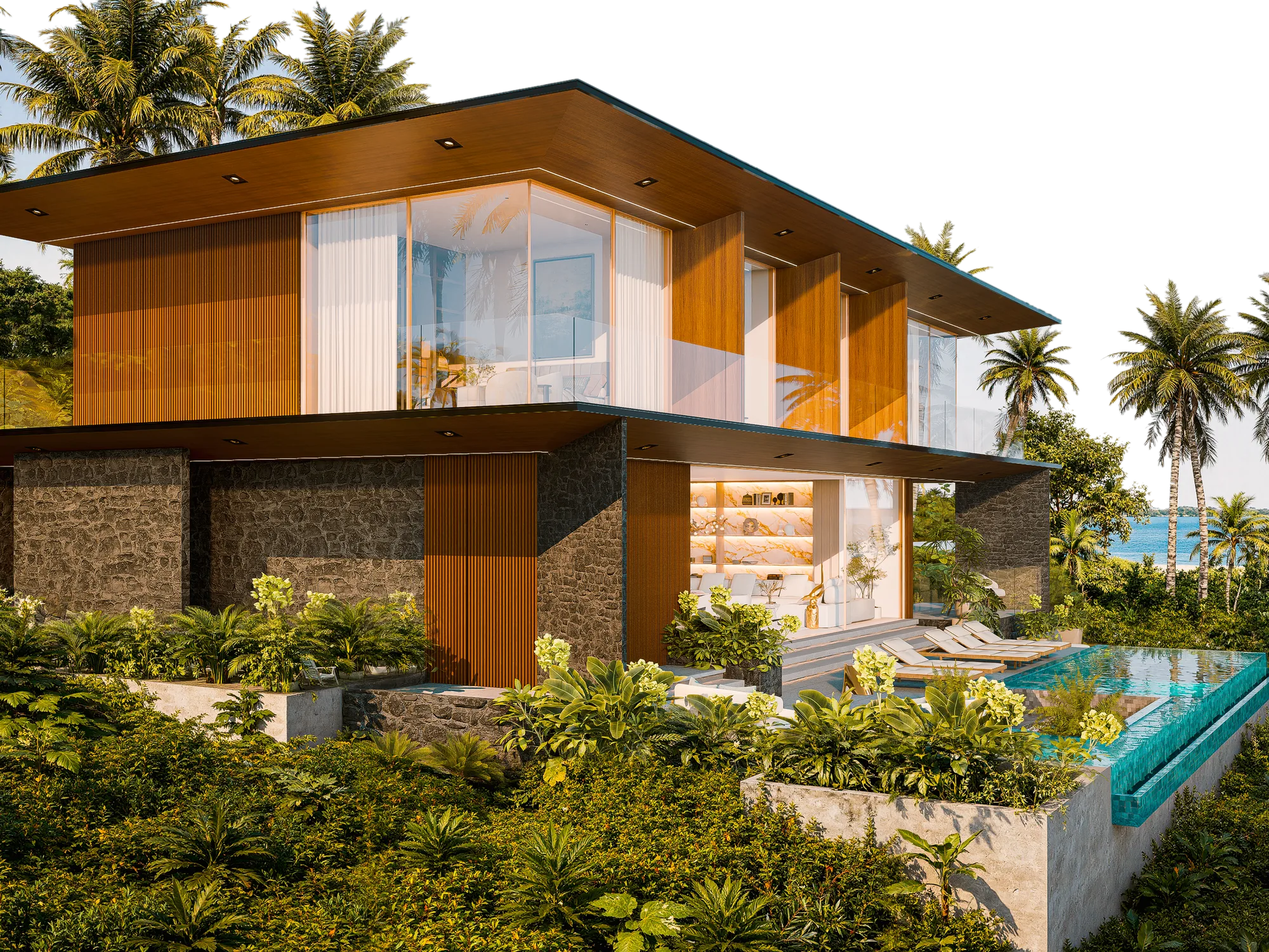
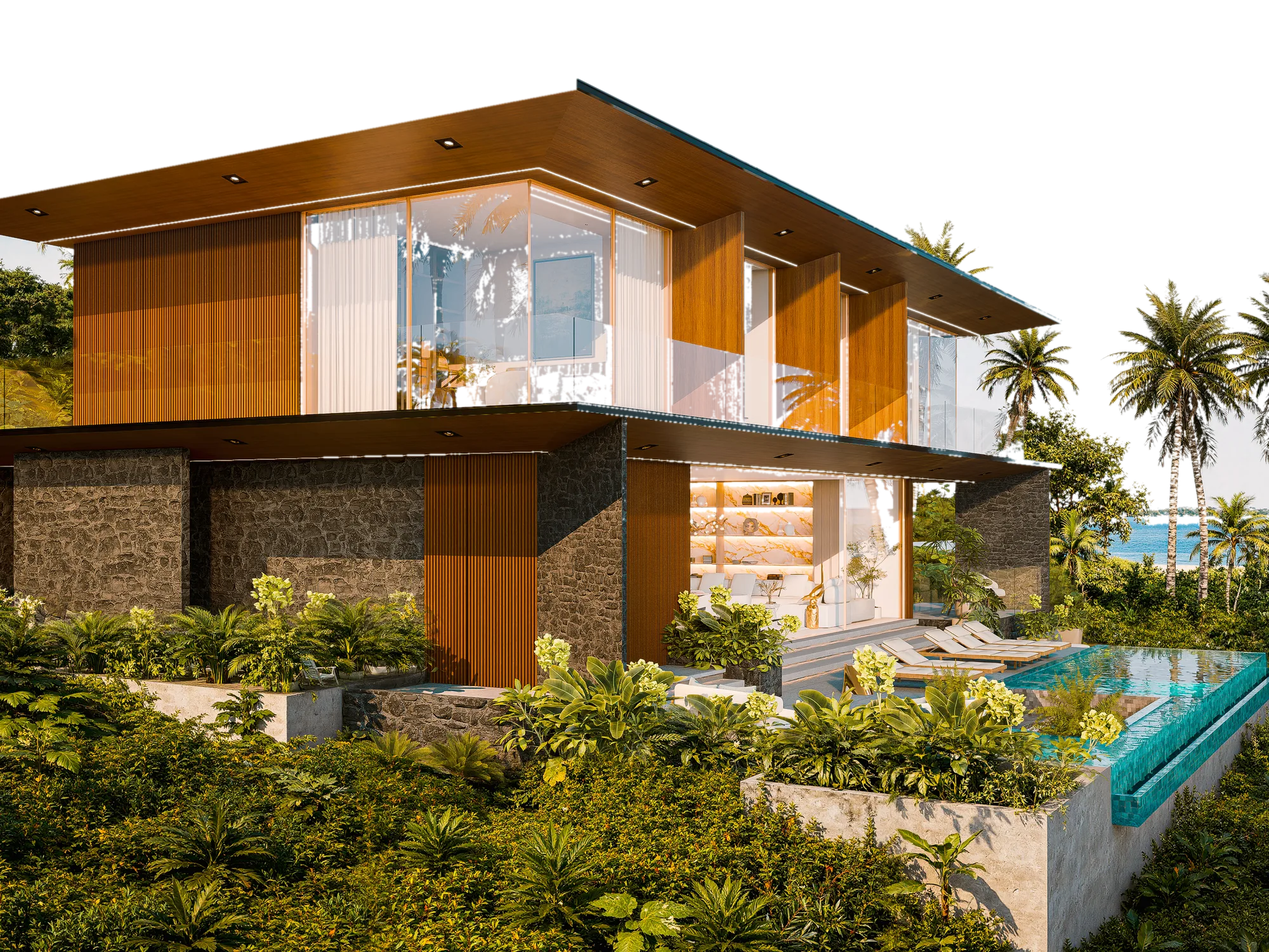
fix(home): bloque de cita sin las palmeras cortadas, con corte en ángulo por el tejado
Las palmeras de arriba a la izquierda salían cortadas por el borde del
render y con huecos de cielo entre las frondas. Se quitan con un corte
que sigue la línea del tejado (13 px por dentro de la fascia) y se
vacían también los huecos de cielo pequeños de las palmeras que se
conservan a la derecha.

diff --git a/scripts/quote-sin-cielo.py b/scripts/quote-sin-cielo.py
@@ -10,16 +10,22 @@ entre fondo e imagen. Aquí se hace lo mismo con el render de Villa Cosón:
   2. Cielo = píxeles claros, poco saturados y azulados (o casi blancos)
      CONECTADOS con el borde superior. El mar (turquesa, saturado), los
      cristales (encerrados por la carpintería) y las cortinas no lo tocan.
-  3. El cielo se encoge 1 px para comerse el halo azul de las palmeras y
-     el alfa se suaviza 1,2 px.
-  4. WebP con alfa + variantes -p-500/800/1080/1600/2000.
+  3. Las palmeras de arriba a la izquierda salían cortadas por el borde
+     del render (y con huecos de cielo entre las frondas): se quitan con un
+     corte en ángulo que sigue la línea del tejado —de (0, 366) al vértice
+     (1066, 165) a 2350 px, unos 13 px por dentro de la fascia para que no
+     quede ningún resto—. Las palmeras de la derecha se conservan; sus
+     huecos de cielo (componentes azules pequeñas de la mitad superior) se
+     vacían también.
+  4. El cielo se encoge 1 px para comerse el halo azul de las frondas y el
+     alfa se suaviza 1,2 px. WebP con alfa + variantes -p-500/800/1080/1600/2000.
 
     python scripts/quote-sin-cielo.py
 """
 import os
 
 import numpy as np
-from PIL import Image
+from PIL import Image, ImageDraw
 from scipy import ndimage
 
 Image.MAX_IMAGE_PIXELS = None
@@ -50,6 +56,17 @@ def main():
     # nada de lo que toque el borde inferior
     abajo = np.unique(etiquetas[-1, :])
     cielo &= ~np.isin(etiquetas, abajo[abajo != 0])
+    # huecos de cielo entre frondas: componentes azules pequeñas de la mitad
+    # superior que no tocan el borde (no son ni mar ni cristal: esos son grandes)
+    tam = ndimage.sum(cand, etiquetas, range(1, n + 1))
+    cy = ndimage.center_of_mass(cand, etiquetas, range(1, n + 1))
+    huecos = [k + 1 for k in range(n) if tam[k] < 3000 and cy[k][0] < a.shape[0] * 0.55]
+    cielo |= np.isin(etiquetas, huecos)
+    # corte en ángulo por encima del tejado: fuera las palmeras cortadas
+    W, H = im.size
+    poli = Image.new('L', (W, H), 0)
+    ImageDraw.Draw(poli).polygon([(0, 0), (0, round(366 * W / 2350)), (round(1066 * W / 2350), round(165 * W / 2350)), (round(1066 * W / 2350), 0)], fill=255)
+    cielo |= np.asarray(poli) > 0
     cielo = ndimage.binary_dilation(cielo, iterations=1)   # come el halo azul de los bordes
     alfa = ndimage.gaussian_filter(np.where(cielo, 0.0, 255.0), 1.2)
     rgba = np.dstack([a, np.clip(alfa, 0, 255).astype(np.uint8)])
